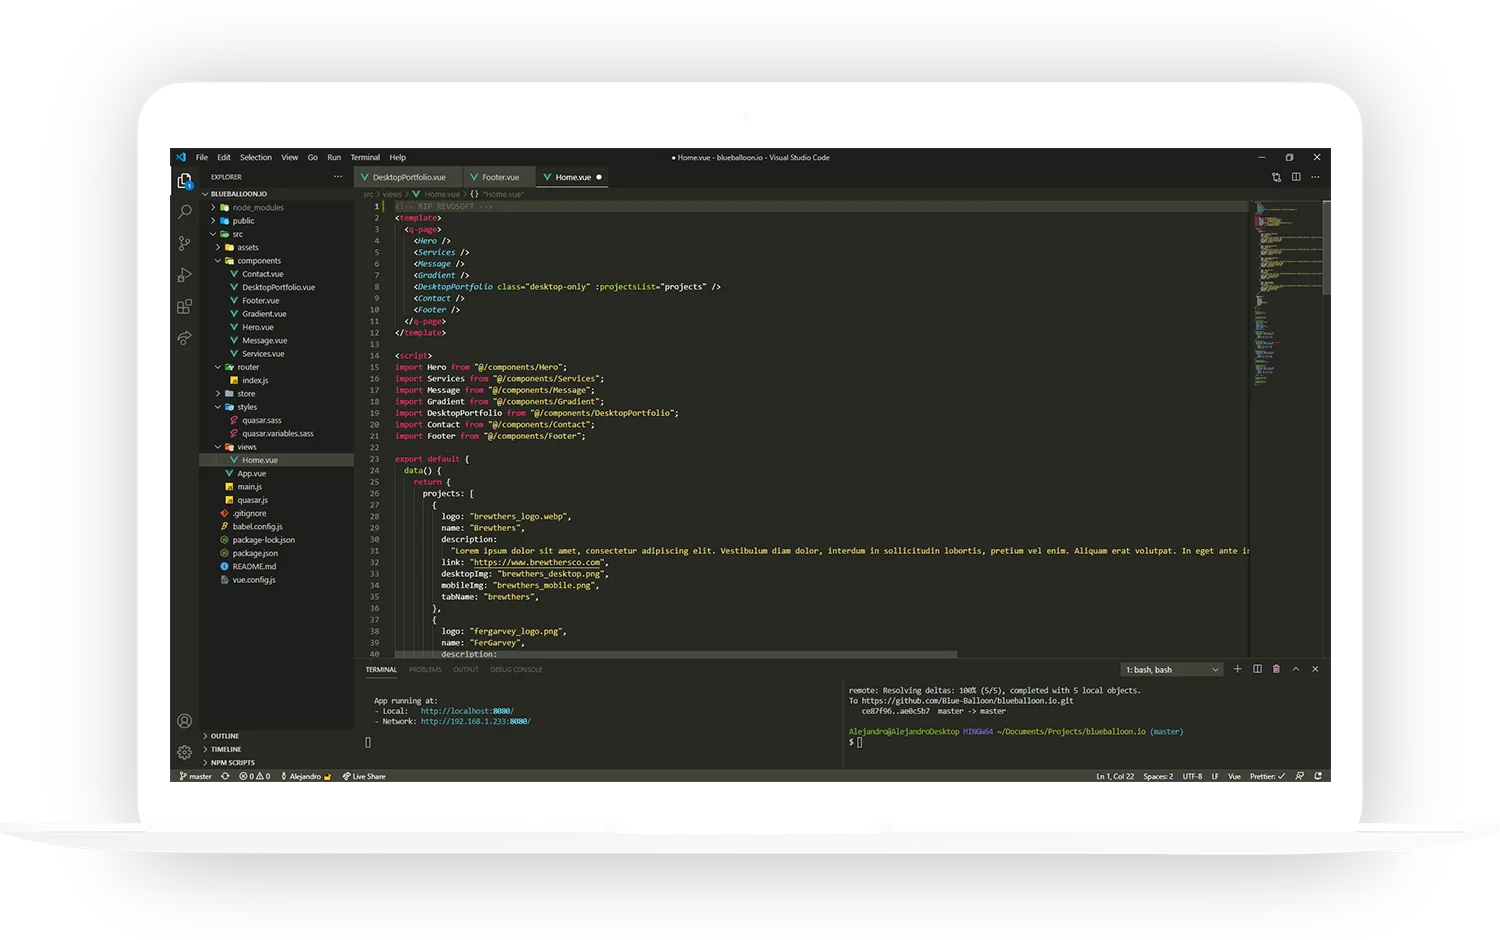
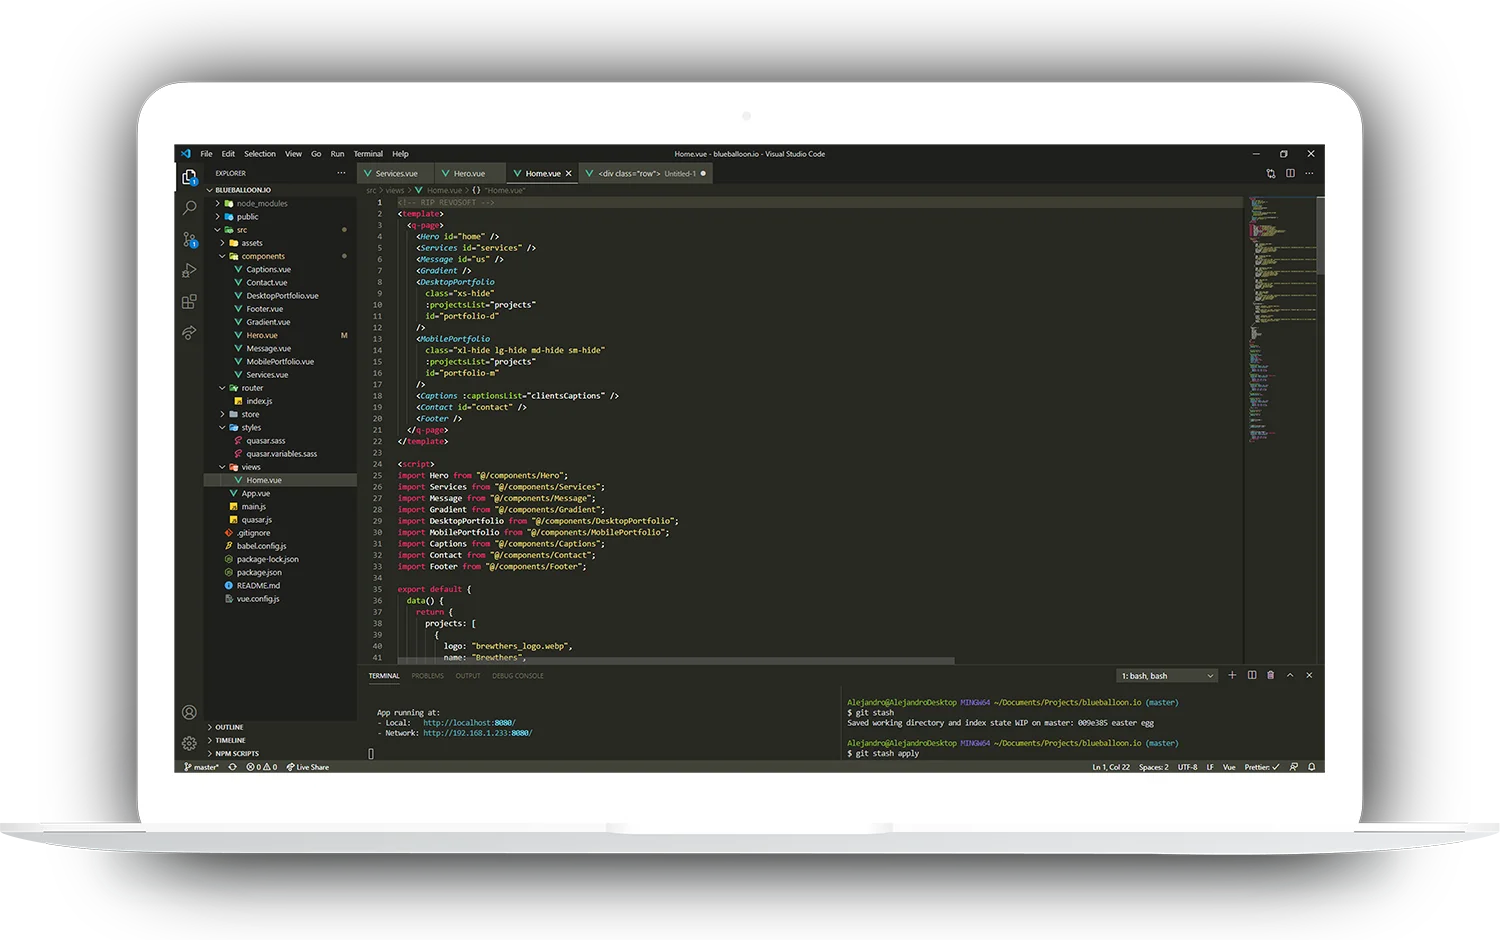
images and css

diff --git a/src/views/Home.vue b/src/views/Home.vue
@@ -47,7 +47,7 @@ export default {
           tabName: "brewthers",
         },
         {
-          logo: "fergarvey_logo.png",
+          logo: "fergarvey_logo.webp",
           name: "FerGarvey",
           description:
             "Sitio web y tienda E-commerse para el artista Fernando Garvey donde podras ver todos sus artes, empresas con las que ha trabajado, historia y comprar articulos de su marca.",
@@ -57,7 +57,7 @@ export default {
           tabName: "fergarvey",
         },
         {
-          logo: "menudigital_logo.png",
+          logo: "menudigital_logo.webp",
           name: "Menu Digital",
           description:
             "Menu Digital es una solucion en linea para todos aquellos emprendedores que se dedican a la venta de consumibles, donde podran presentar su menu y recibir pedidos automaticos directo en su numero de Whatsapp, Correo o condensados en una hoja de calculo para mejor orden y contabilidad.",

diff --git a/src/components/Hero.vue b/src/components/Hero.vue
@@ -7,7 +7,7 @@
           <div
             class="col-lg-6 col-md-6 col-sm-6 col-xs-12 xl-hide lg-hide md-hide sm-hide q-mb-md"
           >
-            <q-img :src="require('@/assets/macbook.png')" />
+            <q-img :src="require('@/assets/macbook.webp')" />
           </div>
           <div class="col-lg-6 col-md-6 col-sm-6 col-xs-12 column flex-center">
             <div
@@ -44,7 +44,7 @@
           <div
             class="col-lg-6 col-md-6 col-sm-6 col-xs-12 xs-hide column flex-center"
           >
-            <q-img :src="require('@/assets/macbook.png')" />
+            <q-img :src="require('@/assets/macbook.webp')" />
             <!-- <svg width="100%" height="400" xmlns="http://www.w3.org/2000/svg">
               <rect
                 width="300"

diff --git a/src/components/Message.vue b/src/components/Message.vue
@@ -6,7 +6,7 @@
         <div class="row">
           <div class="col-lg-6 col-md-6 col-sm-6">
             <q-img
-              :src="require('@/assets/img1.jpg')"
+              :src="require('@/assets/img1.webp')"
               class="rounded-borders"
             />
           </div>
@@ -30,7 +30,7 @@
     </div>
     <div class="row xl-hide lg-hide md-hide sm-hide q-px-md">
       <q-img
-        :src="require('@/assets/img1.jpg')"
+        :src="require('@/assets/img1.webp')"
         class="rounded-borders q-mb-md"
       />
       <div class="bg-grey-1 rounded-borders shadow-2 q-pa-md">

diff --git a/public/index.html b/public/index.html
@@ -7,9 +7,12 @@
     <link rel="icon" href="<%= BASE_URL %>favicon.ico" />
     <link rel="preconnect" href="https://fonts.gstatic.com" />
     <link
+      rel="preload"
       href="https://fonts.googleapis.com/css2?family=Nunito:wght@300;400;600;700&display=swap"
-      rel="stylesheet"
+      as="style"
+      onload="this.onload=null;this.rel='stylesheet'"
     />
+
     <meta
       name="description"
       content="Nos encargamos de traer a la vida tus ideas y proyectos tecnologicos, guiandote a lo largo de todo el proceso, desde la idea concepto hasta concretar un producto funcional."

diff --git a/src/App.vue b/src/App.vue
@@ -22,7 +22,6 @@
               color="primary"
               class="on-left"
               size="sm"
-              name="Instagram"
             >
               <span class="hidden">Instagram</span>
             </q-btn>
@@ -40,10 +39,7 @@
               icon="fab fa-twitter"
               color="primary"
               size="sm"
-              name="Twitter"
-            >
-              <span class="hidden">Twitter</span>
-            </q-btn>
+            />
           </a>
         </div>
       </div>
